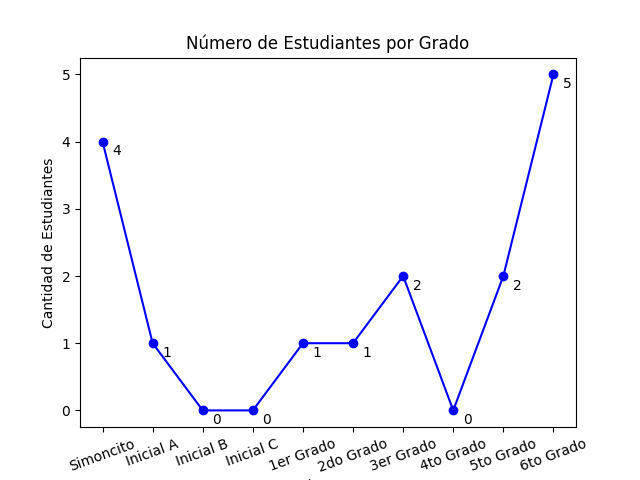
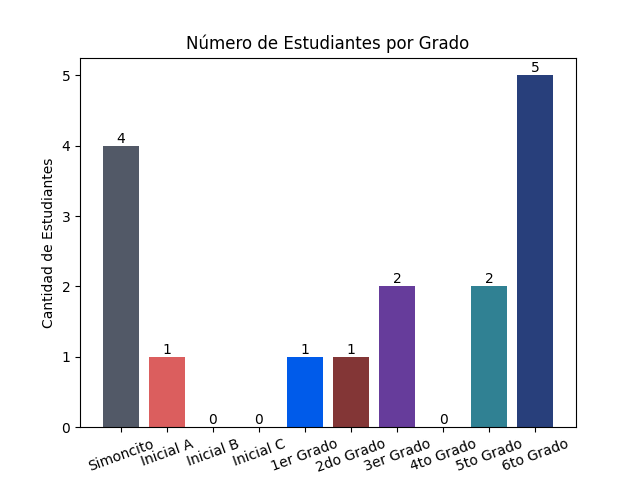
grafica colores

diff --git a/modulos/secciones_modulares/estudiantes/sub_estudiantes/crear_estudiante.py b/modulos/secciones_modulares/estudiantes/sub_estudiantes/crear_estudiante.py
@@ -214,59 +214,58 @@ class CrearEstudianteVentana():
       
       apellido_2 = " ".join(apellidos_2)
       
-      if len(apellidos_2) >= 3 or len(nombres_2) >= 3:
+      if len(apellidos_2) >= 3:
+          texto_emergente = "Cantidad excesiva de apellidos."
+      elif len(nombres_2) >= 3:
           texto_emergente = "Cantidad excesiva de nombres."
-          CTkMessagebox(title="Error", message=texto_emergente,font=("calibri",16),icon="warning")
+      else:
+        dia_nacimiento = self.input_dia_nacimiento_estudiante.get()
+        mes_nacimiento = self.input_mes_nacimiento_estudiante.get()
+        if mes_nacimiento == "Enero":
+            opcion = 1
+        elif mes_nacimiento == "Febrero":
+            opcion = 2
+        elif mes_nacimiento == "Marzo":
+            opcion = 3
+        elif mes_nacimiento == "Abril":
+            opcion = 4
+        elif mes_nacimiento == "Mayo":
+            opcion = 5
+        elif mes_nacimiento == "Junio":
+            opcion = 6
+        elif mes_nacimiento == "Julio":
+            opcion = 7
+        elif mes_nacimiento == "Agosto":
+            opcion = 8
+        elif mes_nacimiento == "Septiembre":
+            opcion = 9
+        elif mes_nacimiento == "Octubre":
+            opcion = 10
+        elif mes_nacimiento == "Noviembre":
+            opcion = 11
+        elif mes_nacimiento == "Diciembre":
+            opcion = 12
+        
+        año_nacimiento = self.input_año_nacimiento_estudiante.get()
+        
+        fecha_nacimiento = f"{año_nacimiento}/{opcion}/{dia_nacimiento}"
+        
+        genero = self.input_genero_estudiante.get()
+        
+        # Conectarse a la base de datos
+        conn = sqlite3.connect('./bd_rufino/bd_escuela.db')
+        c = conn.cursor()
 
-      dia_nacimiento = self.input_dia_nacimiento_estudiante.get()
-      mes_nacimiento = self.input_mes_nacimiento_estudiante.get()
-      
-      if mes_nacimiento == "Enero":
-        opcion = 1
-      elif mes_nacimiento == "Febrero":
-        opcion = 2
-      elif mes_nacimiento == "Marzo":
-        opcion = 3
-      elif mes_nacimiento == "Abril":
-        opcion = 4
-      elif mes_nacimiento == "Mayo":
-        opcion = 5
-      elif mes_nacimiento == "Junio":
-        opcion = 6
-      elif mes_nacimiento == "Julio":
-        opcion = 7
-      elif mes_nacimiento == "Agosto":
-        opcion = 8
-      elif mes_nacimiento == "Septiembre":
-        opcion = 9
-      elif mes_nacimiento == "Octubre":
-        opcion = 10
-      elif mes_nacimiento == "Noviembre":
-        opcion = 11
-      elif mes_nacimiento == "Diciembre":
-        opcion = 12
-      
-      año_nacimiento = self.input_año_nacimiento_estudiante.get()
-      
-      fecha_nacimiento = f"{año_nacimiento}/{opcion}/{dia_nacimiento}"
-      
-      genero = self.input_genero_estudiante.get()
-      
-      # Conectarse a la base de datos
-      conn = sqlite3.connect('./bd_rufino/bd_escuela.db')
-      c = conn.cursor()
+        # Insertar valores en la tabla
+        c.execute("INSERT INTO Estudiante (primer_nombre, segundo_nombre, primer_apellido, segundo_apellido, cedula, fecha_nacimiento, genero) VALUES (?, ?, ?, ?, ?, ?, ?)", (nombre_1, nombre_2, apellido_1, apellido_2, self.cedula, fecha_nacimiento, genero))
 
-      # Insertar valores en la tabla
-      c.execute("INSERT INTO Estudiante (primer_nombre, segundo_nombre, primer_apellido, segundo_apellido, cedula, fecha_nacimiento, genero) VALUES (?, ?, ?, ?, ?, ?, ?)", (nombre_1, nombre_2, apellido_1, apellido_2, self.cedula, fecha_nacimiento, genero))
-
-      # Confirmar los cambios y cerrar la conexión
-      conn.commit()
-      conn.close()
-      
-      ventana_representante = DatosRepresentanteVentana(self.master)
-          
-      ventana_representante.mostrar()
-    
+        # Confirmar los cambios y cerrar la conexión
+        conn.commit()
+        conn.close()
+        
+        ventana_representante = DatosRepresentanteVentana(self.master)
+        ventana_representante.mostrar()
+      CTkMessagebox(title="Error", message=texto_emergente,font=("calibri",16),icon="warning")
     
     def solo_numeros(self, char):
         return char.isdigit() # solo numeros

diff --git a/modulos/secciones_modulares/inicio/crear_estadistica_general.py b/modulos/secciones_modulares/inicio/crear_estadistica_general.py
@@ -1,27 +1,26 @@
-# codigo nuevo
 import matplotlib.pyplot as plt
-
-
-import matplotlib.pyplot as plt
+from modulos.variables import variables as var
 
 def crear_estadistica_general(lista_datos):
-     nombres_datos = ['Simoncito', 'Inicial A', 'Inicial B', 'Inicial C', '1er Grado', '2do Grado', '3er Grado', '4to Grado', '5to Grado', '6to Grado']
+    nombres_datos = ['Simoncito', 'Inicial A', 'Inicial B', 'Inicial C', '1er Grado', '2do Grado', '3er Grado', '4to Grado', '5to Grado', '6to Grado']
 
-     # Crear una figura y un eje
-     fig, ax = plt.subplots()
-     ax.plot(lista_datos, marker='o', linestyle='-', color='b')
-     ax.set_xlabel('Índice')
-     ax.set_ylabel('Cantidad de Estudiantes')
-     ax.set_title('Número de Estudiantes por Grado')
+    # Colores para cada barra (puedes personalizar esta lista)
+    colores = [var.btn_gray, var.btn_pink, var.btn_beige, var.btn_gold, var.btn_blue, var.btn_red_black, var.btn_purple, var.btn_green, var.btn_lila, var.btn_blueosc]
 
-     # Establecer las etiquetas en el eje x
-     ax.set_xticks(range(len(lista_datos)))
-     ax.set_xticklabels(nombres_datos, rotation=20)
+    # Crear una figura y un eje
+    fig, ax = plt.subplots()
+    ax.bar(nombres_datos, lista_datos, color=colores)
+    ax.set_xlabel('Grado')
+    ax.set_ylabel('Cantidad de Estudiantes')
+    ax.set_title('Número de Estudiantes por Grado')
 
-     # Agregar etiquetas a los puntos
-     for i, valor in enumerate(lista_datos):
-         ax.annotate(f'{valor}', (i, valor), textcoords="offset points", xytext=(10, -10), ha='center')
+    # Rotar las etiquetas en el eje x para mayor legibilidad
+    plt.xticks(rotation=20)
 
-     # Guardar la figura como una imagen
-     fig.savefig('matricula_pdf_img/img_estadistica_general/estadistica_general.png')
-     plt.close(fig)
+    # Agregar etiquetas a las barras
+    for i, valor in enumerate(lista_datos):
+        ax.text(i, valor, str(valor), ha='center', va='bottom')
+
+    # Guardar la figura como una imagen
+    fig.savefig('matricula_pdf_img/img_estadistica_general/estadistica_general.png')
+    plt.close(fig)
